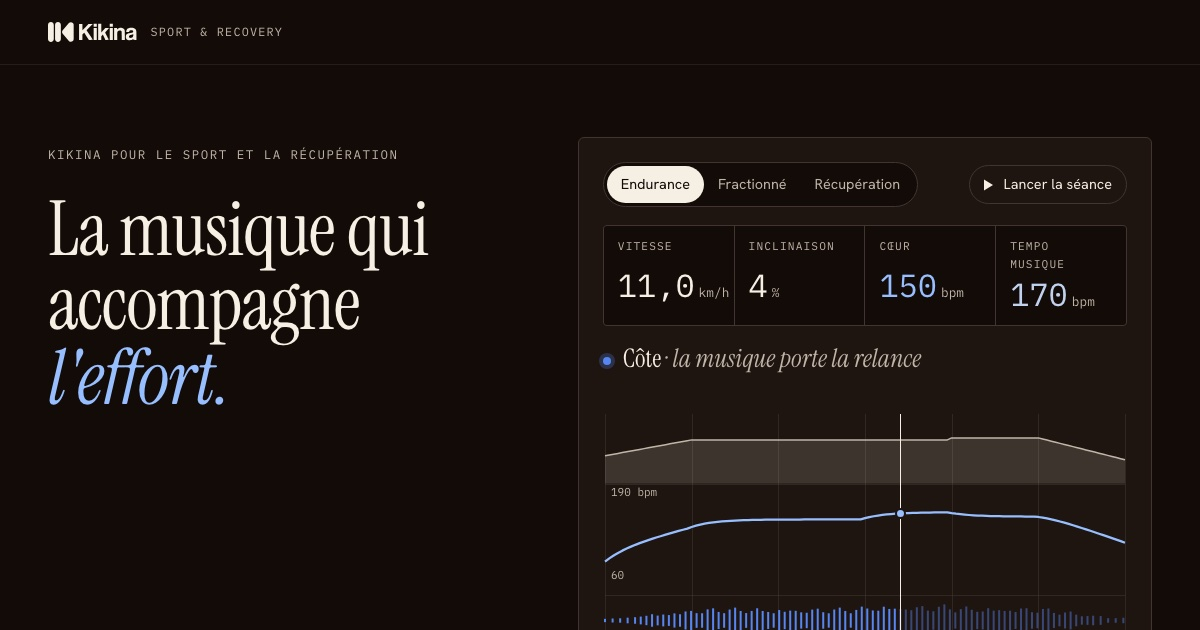
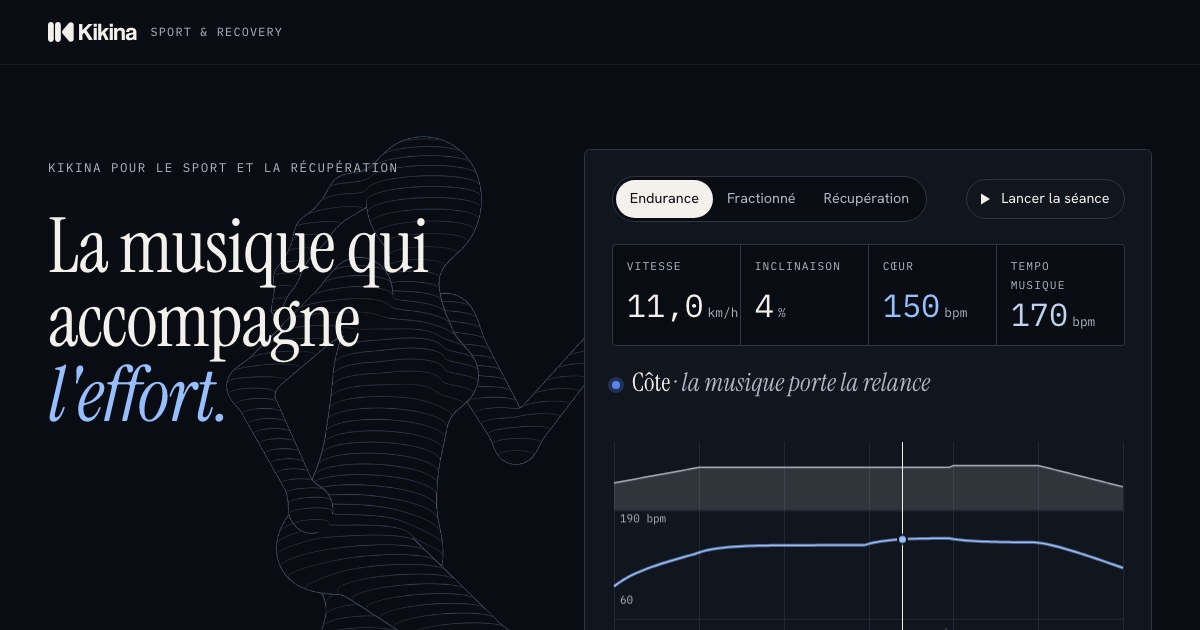
Retours de Jérémie : fond bleu nuit, coureuse en fil de fer, chiffres espacés, titre « La machine et le cœur guident la musique », page aérée

diff --git a/index.html b/index.html
@@ -22,12 +22,12 @@
 <style>
 /* Layout : la page suit l'arc d'une séance (élan, science, données, intégration, retour au calme) ; fonds alternés encre, bleu, os, comme le site Kikina Signature. Un seul moment animé : la console de séance. */
 :root {
-  --ink-0: oklch(16% 0.016 52);
-  --ink-1: oklch(20.5% 0.018 52);
-  --ink-2: oklch(25% 0.018 54);
-  --line-dark: oklch(34% 0.018 54);
-  --cream: oklch(95.5% 0.016 82);
-  --cream-dim: oklch(78% 0.022 74);
+  --ink-0: oklch(15.5% 0.016 262);
+  --ink-1: oklch(19.5% 0.019 262);
+  --ink-2: oklch(24% 0.021 262);
+  --line-dark: oklch(33% 0.022 262);
+  --cream: oklch(96% 0.008 85);
+  --cream-dim: oklch(78% 0.016 255);
   --blue: oklch(44.8% 0.149 264.8);
   --blue-deep: oklch(33% 0.13 265);
   --blue-ink: oklch(98% 0.008 260);
@@ -36,8 +36,8 @@
   --signal: oklch(64% 0.17 264);
   --bone: oklch(96.8% 0.004 85);
   --bone-2: oklch(93.5% 0.006 82);
-  --bone-ink: oklch(18% 0.02 52);
-  --bone-dim: oklch(42% 0.016 58);
+  --bone-ink: oklch(18.5% 0.022 262);
+  --bone-dim: oklch(43% 0.02 262);
   --bone-line: oklch(86% 0.008 80);
   --font-display: "Instrument Serif", Georgia, "Times New Roman", serif;
   --font-body: "Hanken Grotesk", system-ui, -apple-system, "Segoe UI", sans-serif;
@@ -49,13 +49,13 @@
   --text-section: clamp(2.3rem, 3.2vw + 1rem, 4.4rem);
   --text-title: clamp(1.5rem, 0.9vw + 1.1rem, 2.1rem);
   --text-figure: clamp(3.4rem, 4vw + 1.4rem, 5.4rem);
-  --section: clamp(80px, 8vw + 32px, 152px);
+  --section: clamp(96px, 10vw + 40px, 184px);
   --ease: cubic-bezier(0.16, 1, 0.3, 1);
   color-scheme: dark;
 }
 * { box-sizing: border-box; }
 html { -webkit-text-size-adjust: 100%; scroll-behavior: smooth; scroll-padding-top: 80px; }
-body { margin: 0; background: var(--ink-0); color: var(--cream); font-family: var(--font-body); font-size: var(--text-body); line-height: 1.6; -webkit-font-smoothing: antialiased; overflow-x: hidden; }
+body { margin: 0; background: var(--ink-0); color: var(--cream); font-family: var(--font-body); font-size: var(--text-body); line-height: 1.65; -webkit-font-smoothing: antialiased; overflow-x: hidden; }
 body::before { content: ""; position: fixed; inset: 0 0 auto; height: env(safe-area-inset-top, 0px); z-index: 60; background: var(--ink-0); }
 h1, h2, h3, h4 { margin: 0; font-weight: 400; text-wrap: balance; }
 p { margin: 0; }
@@ -83,7 +83,7 @@ em, .it { font-family: var(--font-display); font-style: italic; }
 .eyebrow { font-family: var(--font-data); font-size: 0.78rem; letter-spacing: 0.12em; text-transform: uppercase; color: var(--cream-dim); }
 .ground-blue .eyebrow { color: var(--blue-dim); }
 .ground-bone .eyebrow { color: var(--blue); }
-.section-head { display: grid; gap: 20px; max-width: 900px; margin-bottom: clamp(40px, 5vw, 72px); }
+.section-head { display: grid; gap: 24px; max-width: 900px; margin-bottom: clamp(48px, 6vw, 96px); }
 .section-head h2 { font-family: var(--font-display); font-size: var(--text-section); line-height: 1.02; letter-spacing: -0.01em; }
 .section-head p { font-size: var(--text-lead); max-width: 62ch; }
 
@@ -101,10 +101,14 @@ em, .it { font-family: var(--font-display); font-style: italic; }
 @media (max-width: 420px) { .lockup .tag { display: none; } }
 
 /* Hero */
-.hero { padding-block: clamp(48px, 6vw, 96px) clamp(64px, 7vw, 112px); }
-.hero-grid { display: grid; gap: clamp(40px, 5vw, 72px); grid-template-columns: minmax(0, 1fr); align-items: start; }
+.hero { position: relative; isolation: isolate; overflow: hidden; padding-block: clamp(56px, 7vw, 120px) clamp(72px, 8vw, 136px); }
+/* Coureuse en filaire : décor de fond, pour dire « sport » au premier regard */
+.hero-figure { position: absolute; z-index: -1; pointer-events: none; user-select: none; max-width: none; width: auto; height: min(680px, 150vw); top: 24px; right: -22%; opacity: 0.26; -webkit-mask-image: linear-gradient(to bottom, #000 70%, transparent); mask-image: linear-gradient(to bottom, #000 70%, transparent); }
+@media (min-width: 640px) { .hero-figure { right: -4%; } }
+@media (min-width: 1040px) { .hero-figure { height: 106%; top: 3%; right: auto; left: max(-2%, calc(50% - 760px)); opacity: 0.32; } }
+.hero-grid { display: grid; gap: clamp(48px, 6vw, 96px); grid-template-columns: minmax(0, 1fr); align-items: start; }
 @media (min-width: 1040px) { .hero-grid { grid-template-columns: minmax(0, 0.9fr) minmax(0, 1.1fr); } }
-.hero-copy { display: grid; gap: 28px; align-content: start; padding-top: 8px; }
+.hero-copy { display: grid; gap: 32px; align-content: start; padding-top: 8px; }
 .hero h1 { font-family: var(--font-display); font-size: var(--text-hero); line-height: 0.98; letter-spacing: -0.015em; }
 .hero h1 em { color: var(--pulse); }
 .hero .lead { font-size: var(--text-lead); color: var(--cream-dim); max-width: 46ch; }
@@ -113,7 +117,7 @@ em, .it { font-family: var(--font-display); font-style: italic; }
 .pill { font-family: var(--font-data); font-size: 0.78rem; letter-spacing: 0.04em; padding: 6px 12px; border: 1px solid var(--line-dark); border-radius: 999px; color: var(--cream-dim); }
 
 /* Console de séance */
-.console { background: var(--ink-1); border: 1px solid var(--line-dark); border-radius: 6px; padding: clamp(14px, 2vw, 24px); display: grid; grid-template-columns: minmax(0, 1fr); gap: 18px; min-width: 0; }
+.console { background: var(--ink-1); border: 1px solid var(--line-dark); border-radius: 6px; padding: clamp(16px, 2.2vw, 28px); display: grid; grid-template-columns: minmax(0, 1fr); gap: 22px; min-width: 0; }
 .console > * { min-width: 0; }
 @media (max-width: 560px) {
   .console-top { display: grid; grid-template-columns: minmax(0, 1fr); }
@@ -153,46 +157,45 @@ em, .it { font-family: var(--font-display); font-style: italic; }
 @media (max-width: 560px) { .legend .note { margin-left: 0; width: 100%; } }
 
 /* Science */
-.ban { display: grid; gap: clamp(32px, 4vw, 64px); grid-template-columns: minmax(0, 1fr); align-items: start; margin-bottom: clamp(48px, 6vw, 88px); }
+.ban { display: grid; gap: clamp(32px, 4vw, 64px); grid-template-columns: minmax(0, 1fr); align-items: start; margin-bottom: clamp(56px, 7vw, 112px); }
 @media (min-width: 960px) { .ban { grid-template-columns: minmax(0, 1.25fr) minmax(0, 0.75fr); } }
 .ban h2 { font-family: var(--font-display); font-size: var(--text-section); line-height: 1.02; }
 .ban p { font-size: var(--text-lead); }
-.studies { display: grid; grid-template-columns: repeat(auto-fit, minmax(min(100%, 250px), 1fr)); gap: 0; border-top: 1px solid color-mix(in oklch, var(--blue-ink) 30%, transparent); }
-.study { padding: 28px 24px 28px 0; display: grid; gap: 12px; align-content: start; border-bottom: 1px solid color-mix(in oklch, var(--blue-ink) 30%, transparent); min-width: 0; }
-@media (min-width: 640px) { .study { padding-right: 28px; } }
+.studies { display: grid; grid-template-columns: repeat(auto-fit, minmax(min(100%, 220px), 1fr)); gap: 0 clamp(32px, 4vw, 56px); }
+.study { padding: 32px 0 44px; display: grid; gap: 16px; align-content: start; border-top: 1px solid color-mix(in oklch, var(--blue-ink) 30%, transparent); min-width: 0; }
 .study .fig { font-family: var(--font-display); font-size: var(--text-figure); line-height: 0.95; font-variant-numeric: tabular-nums; }
 .study h3 { font-size: 1.12rem; font-weight: 600; line-height: 1.35; }
 .study p { color: var(--blue-dim); font-size: var(--text-sm); }
 .study cite { font-style: normal; font-family: var(--font-data); font-size: 0.74rem; letter-spacing: 0.02em; color: var(--blue-dim); }
 .study cite a { text-decoration: underline; }
 
-.sci-note { margin-top: 32px; max-width: 78ch; color: var(--blue-dim); font-size: var(--text-sm); }
+.sci-note { margin-top: 48px; max-width: 78ch; color: var(--blue-dim); font-size: var(--text-sm); }
 
 /* Données → musique */
-.flow { display: grid; gap: 16px; grid-template-columns: minmax(0, 1fr); align-items: stretch; }
-@media (min-width: 960px) { .flow { grid-template-columns: minmax(0, 1fr) 40px minmax(0, 1fr) 40px minmax(0, 1fr); } }
-.node { border: 1px solid var(--bone-line); background: var(--bone); border-radius: 6px; padding: 24px; display: grid; gap: 14px; align-content: start; min-width: 0; }
+.flow { display: grid; gap: 24px; grid-template-columns: minmax(0, 1fr); align-items: stretch; }
+@media (min-width: 960px) { .flow { grid-template-columns: minmax(0, 1fr) 48px minmax(0, 1fr) 48px minmax(0, 1fr); } }
+.node { border: 1px solid var(--bone-line); background: var(--bone); border-radius: 6px; padding: 32px; display: grid; gap: 16px; align-content: start; min-width: 0; }
 .node.engine { background: var(--bone-ink); color: var(--bone); border-color: var(--bone-ink); }
 .node.engine .dim { color: var(--cream-dim); }
 .node.engine .eyebrow { color: var(--pulse); }
 .node h3 { font-family: var(--font-display); font-size: var(--text-title); line-height: 1.1; }
-.inputs { display: grid; gap: 14px; }
+.inputs { display: grid; gap: 24px; }
 .chips { display: flex; flex-wrap: wrap; gap: 6px; }
 .chip { font-family: var(--font-data); font-size: 0.78rem; padding: 5px 10px; border-radius: 999px; border: 1px solid var(--bone-line); color: var(--bone-ink); background: var(--bone-2); }
-.node.engine .chip { background: transparent; border-color: oklch(40% 0.018 54); color: var(--cream); }
+.node.engine .chip { background: transparent; border-color: oklch(40% 0.022 262); color: var(--cream); }
 .arrow { display: grid; place-items: center; color: var(--bone-dim); }
 .arrow svg { width: 28px; height: 28px; }
 @media (max-width: 959px) { .arrow svg { transform: rotate(90deg); } }
-.aims { margin-top: clamp(40px, 5vw, 64px); display: grid; grid-template-columns: repeat(auto-fit, minmax(min(100%, 260px), 1fr)); gap: 0; border-top: 1px solid var(--bone-ink); }
-.aim { padding: 24px 24px 8px 0; display: grid; gap: 10px; align-content: start; }
+.aims { margin-top: clamp(56px, 6vw, 88px); display: grid; grid-template-columns: repeat(auto-fit, minmax(min(100%, 260px), 1fr)); gap: 0; border-top: 1px solid var(--bone-ink); }
+.aim { padding: 32px 32px 8px 0; display: grid; gap: 12px; align-content: start; }
 .aim svg { width: 100%; max-width: 220px; height: 44px; color: var(--blue); }
 .aim h3 { font-family: var(--font-display); font-size: var(--text-title); line-height: 1.1; }
 .aim p { color: var(--bone-dim); }
-.ai-note { margin-top: 32px; font-size: var(--text-sm); color: var(--bone-dim); max-width: 70ch; }
+.ai-note { margin-top: 48px; font-size: var(--text-sm); color: var(--bone-dim); max-width: 70ch; }
 
 /* Intégration */
-.ways { display: grid; grid-template-columns: repeat(auto-fit, minmax(min(100%, 300px), 1fr)); gap: 16px; }
-.way { border: 1px solid var(--line-dark); border-radius: 6px; padding: 28px 24px; display: grid; gap: 16px; align-content: start; background: var(--ink-1); min-width: 0; }
+.ways { display: grid; grid-template-columns: repeat(auto-fit, minmax(min(100%, 300px), 1fr)); gap: 24px; }
+.way { border: 1px solid var(--line-dark); border-radius: 6px; padding: 36px 32px; display: grid; gap: 18px; align-content: start; background: var(--ink-1); min-width: 0; }
 .way .ico { width: 52px; height: 52px; border-radius: 50%; border: 1px solid var(--line-dark); display: grid; place-items: center; color: var(--pulse); }
 .way .ico svg { width: 24px; height: 24px; }
 .way h3 { font-family: var(--font-display); font-size: var(--text-title); line-height: 1.1; }
@@ -200,35 +203,35 @@ em, .it { font-family: var(--font-display); font-style: italic; }
 .way .for { font-family: var(--font-data); font-size: 0.74rem; letter-spacing: 0.08em; text-transform: uppercase; color: var(--cream-dim); border-top: 1px solid var(--line-dark); padding-top: 14px; }
 
 /* Récupération */
-.recovery { display: grid; gap: clamp(32px, 4vw, 64px); grid-template-columns: minmax(0, 1fr); align-items: stretch; }
+.recovery { display: grid; gap: clamp(40px, 5vw, 88px); grid-template-columns: minmax(0, 1fr); align-items: stretch; }
 @media (min-width: 960px) { .recovery { grid-template-columns: minmax(0, 0.8fr) minmax(0, 1.2fr); } }
 .recovery figure { margin: 0; border-radius: 6px; overflow: hidden; min-height: 320px; background: var(--blue-dim); }
 .recovery figure img { width: 100%; height: 100%; object-fit: cover; }
 @media (max-width: 959px) { .recovery figure { min-height: 0; height: clamp(240px, 60vw, 420px); } }
-.rec-copy { display: grid; gap: 28px; align-content: start; }
+.rec-copy { display: grid; gap: 36px; align-content: start; }
 .rec-copy h2 { font-family: var(--font-display); font-size: var(--text-section); line-height: 1.02; }
 .rec-copy > p { font-size: var(--text-lead); color: var(--bone-dim); }
 .formats { display: grid; grid-template-columns: repeat(auto-fit, minmax(min(100%, 220px), 1fr)); gap: 0; border-top: 1px solid var(--bone-line); }
-.format { padding: 18px 18px 18px 0; display: grid; gap: 6px; border-bottom: 1px solid var(--bone-line); }
+.format { padding: 24px 24px 24px 0; display: grid; gap: 6px; border-bottom: 1px solid var(--bone-line); }
 .format h3 { font-size: 1.05rem; font-weight: 600; }
 .format p { color: var(--bone-dim); font-size: var(--text-sm); }
-.proof { display: grid; grid-template-columns: auto minmax(0, 1fr); gap: 8px 24px; align-items: center; padding: 24px; background: var(--bone-2); border-radius: 6px; }
+.proof { display: grid; grid-template-columns: auto minmax(0, 1fr); gap: 12px 32px; align-items: center; padding: 32px; background: var(--bone-2); border-radius: 6px; }
 @media (max-width: 520px) { .proof { grid-template-columns: minmax(0, 1fr); } }
 .proof .fig { font-family: var(--font-display); font-size: var(--text-figure); line-height: 0.9; color: var(--blue); font-variant-numeric: tabular-nums; }
 .proof p { color: var(--bone-ink); }
 .proof cite { grid-column: 1 / -1; font-style: normal; font-family: var(--font-data); font-size: 0.74rem; color: var(--bone-dim); }
 
 /* Références */
-.refs { padding-block: 0 clamp(48px, 5vw, 72px); }
-.refs-in { display: grid; gap: 28px; }
-.logos { display: grid; grid-template-columns: repeat(auto-fit, minmax(min(100%, 120px), 1fr)); gap: 28px 40px; align-items: center; }
+.refs { padding-block: 0 clamp(64px, 7vw, 104px); }
+.refs-in { display: grid; gap: 36px; }
+.logos { display: grid; grid-template-columns: repeat(auto-fit, minmax(min(100%, 120px), 1fr)); gap: 36px 56px; align-items: center; }
 .logos img { height: 30px; width: auto; max-width: 100%; object-fit: contain; margin: 0 auto; opacity: 0.85; }
 .ap { color: var(--cream-dim); font-size: var(--text-sm); max-width: 80ch; }
 .ap strong { color: var(--cream); font-weight: 600; }
 
 /* Équipe */
-.team { display: grid; grid-template-columns: repeat(auto-fit, minmax(min(100%, 280px), 1fr)); gap: 16px; }
-.person { display: grid; grid-template-columns: 72px minmax(0, 1fr); gap: 18px; align-items: start; padding: 24px 0; border-top: 1px solid var(--line-dark); }
+.team { display: grid; grid-template-columns: repeat(auto-fit, minmax(min(100%, 280px), 1fr)); gap: 0 32px; }
+.person { display: grid; grid-template-columns: 72px minmax(0, 1fr); gap: 22px; align-items: start; padding: 32px 0; border-top: 1px solid var(--line-dark); }
 .person img, .person .mono { width: 72px; height: 72px; border-radius: 50%; object-fit: cover; }
 .person .mono { display: grid; place-items: center; background: var(--ink-2); font-family: var(--font-display); font-size: 1.6rem; color: var(--cream-dim); }
 .person h3 { font-family: var(--font-display); font-size: 1.6rem; line-height: 1.1; }
@@ -237,11 +240,11 @@ em, .it { font-family: var(--font-display); font-style: italic; }
 
 /* Contact */
 .contact-band { padding-block: var(--section); }
-.contact-grid { display: grid; gap: 40px; grid-template-columns: minmax(0, 1fr); align-items: end; }
+.contact-grid { display: grid; gap: 56px; grid-template-columns: minmax(0, 1fr); align-items: end; }
 @media (min-width: 960px) { .contact-grid { grid-template-columns: minmax(0, 1.1fr) minmax(0, 0.9fr); } }
 .contact-grid h2 { font-family: var(--font-display); font-size: var(--text-section); line-height: 1.02; }
 .contact-grid > div > p { margin-top: 20px; font-size: var(--text-lead); color: var(--blue-dim); max-width: 46ch; }
-.card { background: var(--blue-deep); border-radius: 6px; padding: 28px; display: grid; gap: 14px; }
+.card { background: var(--blue-deep); border-radius: 6px; padding: 36px; display: grid; gap: 18px; }
 .card .who { font-family: var(--font-display); font-size: 1.8rem; line-height: 1.1; }
 .card .who span { display: block; font-family: var(--font-data); font-size: 0.74rem; letter-spacing: 0.08em; text-transform: uppercase; color: var(--blue-dim); margin-top: 6px; }
 .mail { display: flex; flex-wrap: wrap; align-items: center; gap: 10px; }
@@ -250,17 +253,17 @@ em, .it { font-family: var(--font-display); font-style: italic; }
 .copy:hover { background: color-mix(in oklch, var(--blue-ink) 12%, transparent); }
 
 /* Sources */
-.sources { padding-block: 40px 56px; }
+.sources { padding-block: 56px 72px; }
 .sources summary { list-style: none; cursor: pointer; display: inline-flex; align-items: center; gap: 12px; padding-block: 6px; font-family: var(--font-data); font-size: 0.78rem; letter-spacing: 0.12em; text-transform: uppercase; color: var(--cream-dim); }
 .sources summary::-webkit-details-marker { display: none; }
 .sources summary::after { content: ""; width: 7px; height: 7px; border-right: 1.5px solid currentColor; border-bottom: 1.5px solid currentColor; transform: translateY(-2px) rotate(45deg); transition: transform 0.2s ease; }
 .sources details[open] summary::after { transform: translateY(2px) rotate(-135deg); }
 .sources summary:hover { color: var(--cream); }
-.sources ol { display: grid; gap: 10px; counter-reset: src; max-width: 110ch; margin-top: 20px; }
+.sources ol { display: grid; gap: 12px; counter-reset: src; max-width: 110ch; margin-top: 20px; }
 .sources li { font-size: 0.85rem; color: var(--cream-dim); padding-left: 2.2em; position: relative; }
 .sources li::before { counter-increment: src; content: counter(src); position: absolute; left: 0; font-family: var(--font-data); color: var(--cream-dim); }
 .sources a { word-break: break-word; }
-.foot { display: flex; flex-wrap: wrap; justify-content: space-between; gap: 16px; padding-top: 32px; margin-top: 40px; border-top: 1px solid var(--line-dark); color: var(--cream-dim); font-size: 0.85rem; }
+.foot { display: flex; flex-wrap: wrap; justify-content: space-between; gap: 16px; padding-top: 40px; margin-top: 56px; border-top: 1px solid var(--line-dark); color: var(--cream-dim); font-size: 0.85rem; }
 .foot .logo { height: 16px; color: var(--cream-dim); }
 
 @media (prefers-reduced-motion: reduce) { html { scroll-behavior: auto; } * { transition: none !important; } }
@@ -293,6 +296,7 @@ em, .it { font-family: var(--font-display); font-style: italic; }
 
 <main id="haut">
   <section class="hero ground-ink">
+    <img class="hero-figure" src="assets/coureuse-filaire.png" alt="" width="1148" height="1500" aria-hidden="true" decoding="async">
     <div class="wrap hero-grid">
       <div class="hero-copy">
         <p class="eyebrow">Kikina pour le sport et la récupération</p>
@@ -339,12 +343,12 @@ em, .it { font-family: var(--font-display); font-style: italic; }
         <h2>En compétition, les écouteurs sont <em>une aide interdite.</em></h2>
         <p>Le règlement de World Athletics range radios, lecteurs et téléphones parmi les aides interdites sur l'aire de compétition. Aux États-Unis, la fédération d'athlétisme a interdit les écouteurs dans ses courses en 2007, et les interdit toujours à ceux qui courent pour un titre, une médaille ou une prime. Ce que la musique fait à l'effort, la recherche l'a mesuré. Kikina en fait un outil d'entraînement.</p>
       </div>
-      <p class="eyebrow" style="margin-bottom:20px">Ce que la recherche a mesuré</p>
+      <p class="eyebrow" style="margin-bottom:24px">Ce que la recherche a mesuré</p>
       <div class="studies">
         <article class="study">
           <span class="fig">139</span>
-          <h3>études réunies dans une méta-analyse</h3>
-          <p>Sur 3&nbsp;599 participants, la musique améliore la performance physique et diminue l'effort perçu. L'effet est plus net avec un tempo rapide, et à l'entraînement qu'en compétition.</p>
+          <h3>études réunies le montrent&nbsp;: la musique améliore la performance</h3>
+          <p>Une méta-analyse sur 3&nbsp;599 participants&nbsp;: la performance physique progresse et l'effort perçu diminue. L'effet est plus net avec un tempo rapide, et à l'entraînement qu'en compétition.</p>
           <cite>Terry, Karageorghis et al., Psychological Bulletin, 2020</cite>
         </article>
         <article class="study">
@@ -374,7 +378,7 @@ em, .it { font-family: var(--font-display); font-style: italic; }
     <div class="wrap">
       <div class="section-head">
         <p class="eyebrow">Comment ça marche</p>
-        <h2>Deux sources de données, <em>une musique.</em></h2>
+        <h2>La machine et le cœur <em>guident la musique.</em></h2>
         <p class="dim">La machine connaît le programme de la séance. Le cœur montre ce que l'effort coûte au corps. La musique s'ajuste aux deux, à chaque seconde.</p>
       </div>
       <div class="flow">
